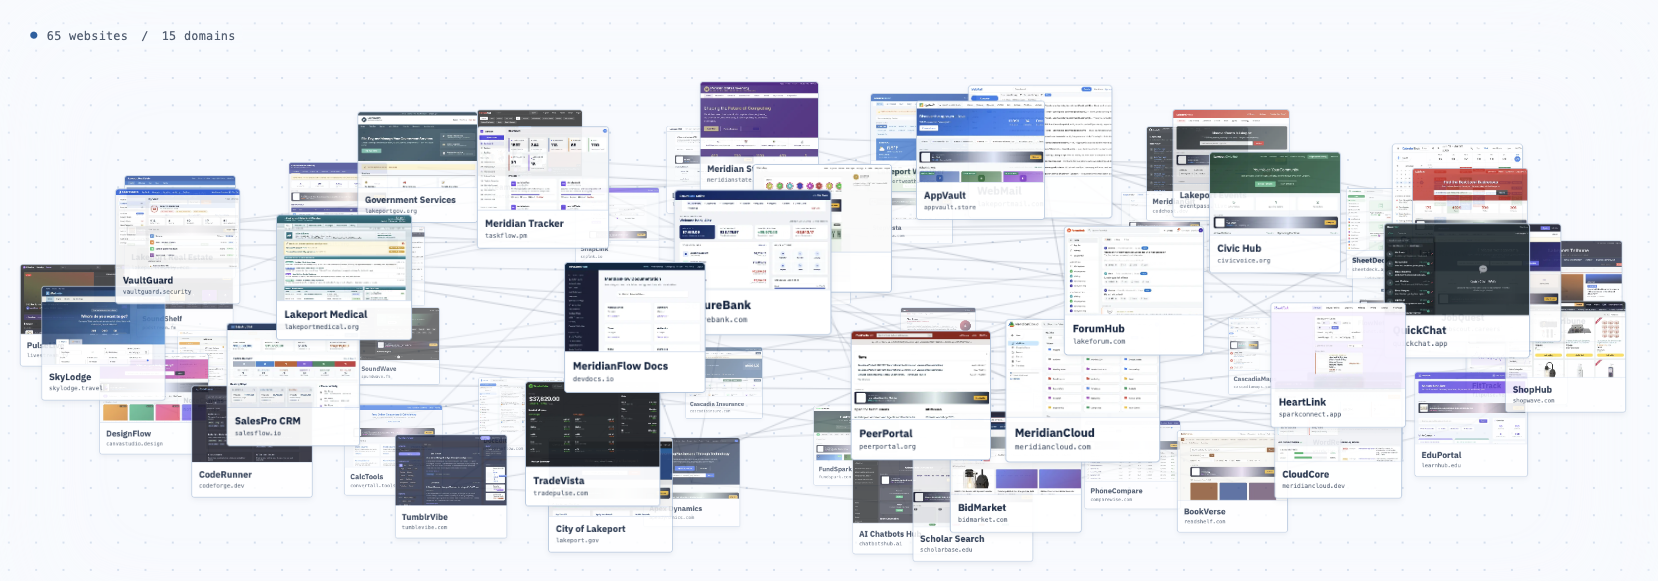
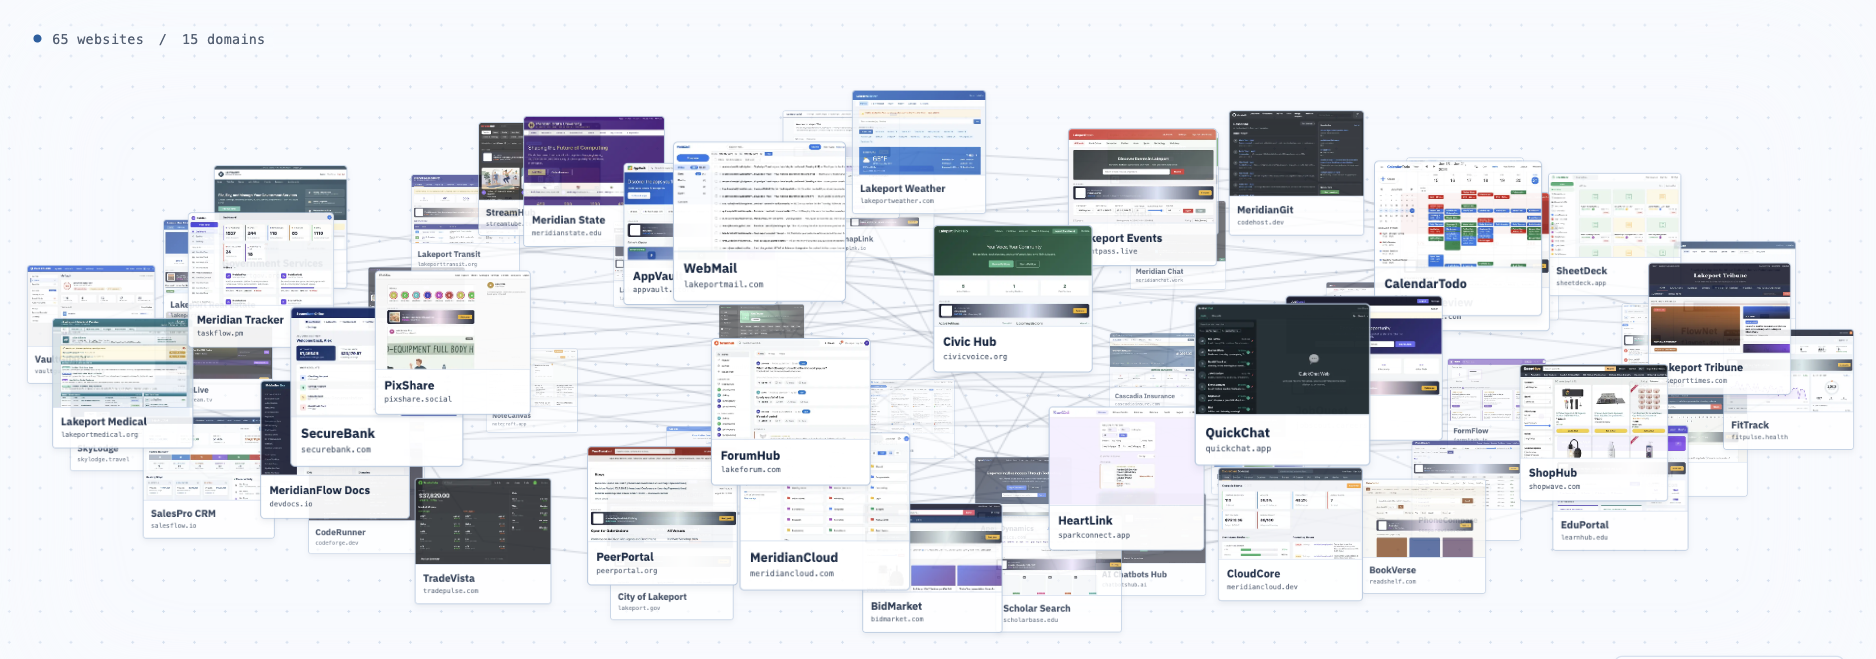
Replace MiniWeb figure with higher-quality image

diff --git a/_pages/publications.html b/_pages/publications.html
@@ -36,7 +36,7 @@ extra_css: research-pages
 
       <div class="pub-img-wrap" id="miniweb">
           <a href="{{ '/images/miniweb-overview.png' | relative_url }}">
-              <img src="{{ '/images/miniweb-overview.png' | relative_url }}" width="1658" height="581" alt="MiniWeb overview: 65 connected websites across 15 domains for practicing and evaluating web-agent skills" loading="lazy" decoding="async">
+              <img src="{{ '/images/miniweb-overview.png' | relative_url }}" width="1876" height="659" alt="MiniWeb overview: 65 connected websites across 15 domains for practicing and evaluating web-agent skills" loading="lazy" decoding="async">
           </a>
           <div class="section-item">
               <strong>Back to Basics: Drills Before Games for Web Agents</strong><br>
